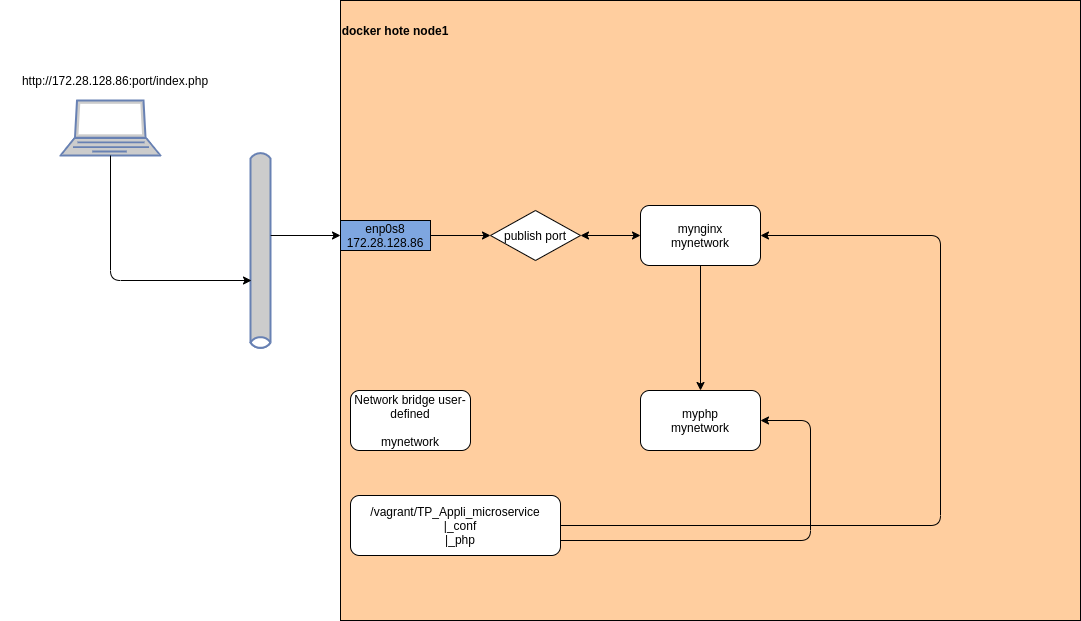
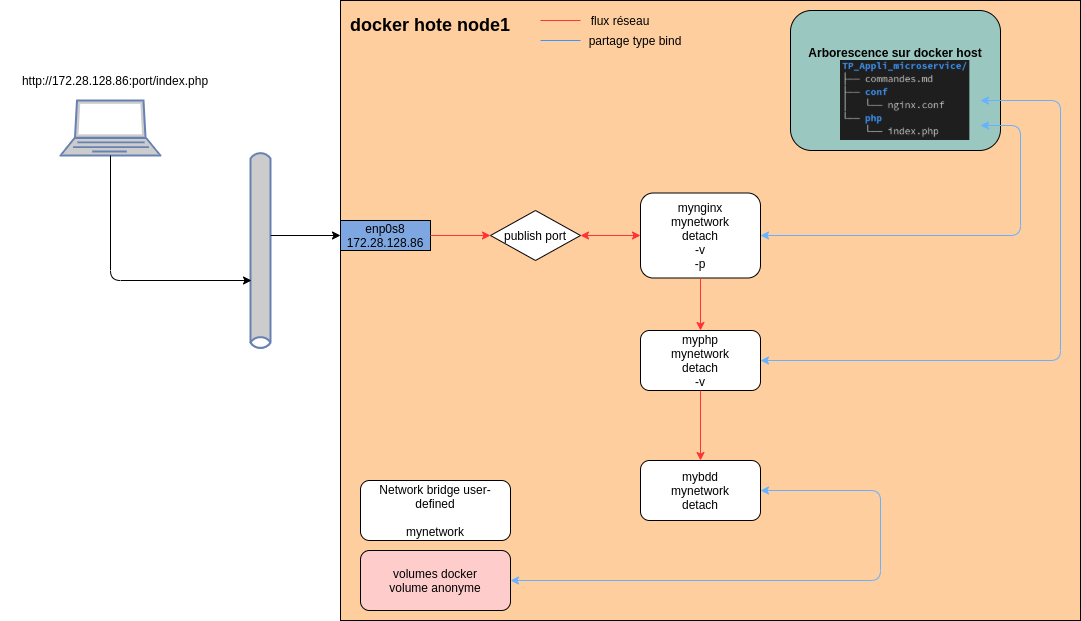
Ok personne ne dit rien

diff --git a/TP2_Appli_microservice.md b/TP2_Appli_microservice.md
@@ -107,4 +107,11 @@ $ sudo docker container restart myphp
 $ sudo docker container commit -a "Pierre" -m "Ajout package mysql php" myphp myphp_mysql:7.4
 $ sudo docker image ls
 ```
+
+> Si on doit réinstancier le conteneur myphp, on utilisera la nouvelle image :
+
+```bash
+$ sudo docker container run --name myphp -d --network mynetwork -v /vagrant/TP_Appli_microservice/php:/srv/http myphp_mysql:7.4
+```
+
 ## Analyse volumes et conteneur mybdd
